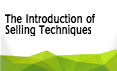
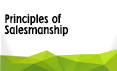
Revision Thirty

Changed region(s): [[0.0256, 0.169, 0.8205, 0.5352]]

diff --git a/elearning/pages/page54.html b/elearning/pages/page54.html
@@ -18,19 +18,19 @@
 		<section>
 			<div class="container">
 				<div class="content">
-					<ol>
-						<b><li>You are selling your product not the visual aid.</li></b>
-						<b><li>Know your visual aid details</li></b>
-						<b><li>Use it to support what you say, not to do the selling for you.</li></b>
-						<b><li>Make it clean and ready to use.</li></b>
-						<b><li>Use pen or marker, if required</li></b>
-						<b><li>Keep control of the visual aid.</li></b>
-						<b><li>Make it concise with what you are saying.</li></b>
-						<b><li>Rap it unless it is in use.</li></b>
-						<b><li>Make it seen by your audience not you.</li></b>
-						<b><li>Use it to illustrate point by point.</li></b>
+					<ul style="list-style-type: none">
+						<b><li>&nbsp 1. You are selling your product not the visual aid.</li></b>
+						<b><li>&nbsp 2. Know your visual aid details</li></b>
+						<b><li>&nbsp 3. Use it to support what you say, not to do the selling for you.</li></b>
+						<b><li>&nbsp 4. Make it clean and ready to use.</li></b>
+						<b><li>&nbsp 5. Use pen or marker, if required</li></b>
+						<b><li>&nbsp 6. Keep control of the visual aid.</li></b>
+						<b><li>&nbsp 7. Make it concise with what you are saying.</li></b>
+						<b><li>&nbsp 8. Rap it unless it is in use.</li></b>
+						<b><li>&nbsp 9. Make it seen by your audience not you.</li></b>
+						<b><li>10. Use it to illustrate point by point.</li></b>
 
-					</ol>
+					</ul>
 				</div>
 			</div>
 		</section>

diff --git a/elearning/pages/page49.html b/elearning/pages/page49.html
@@ -20,10 +20,10 @@
 	var quiz = {
 		"question": "Paul works for Indus Marketing Solution for more than 5 years and is the senior most marketing lead. He designs the selling strategies for the organization for any new product launch.<br>Paul has now a new team and a new product launched for sale. What is the Sales technique that Paul will reiterate the new team for successful sales?",
 		"choices": {
-			"1": "Opening, Reinforcement, Meeting Planning, Gaining Commitment",
-			"2": "Pre Meet Planning, Opening, Probing, Reinforce and Gaining Commitment",
-			"3": "Pre Meet planning, Opening, Reinforce, Probing and Gaining Commitment",
-			"4": "Opening, Meeting Planning, Gaining Commitment and Reinforcement"
+			"1": "A. Opening, Reinforcement, Meeting Planning, Gaining Commitment",
+			"2": "B. Pre Meet Planning, Opening, Probing, Reinforce and Gaining Commitment",
+			"3": "C. Pre Meet planning, Opening, Reinforce, Probing and Gaining Commitment",
+			"4": "D. Opening, Meeting Planning, Gaining Commitment and Reinforcement"
 		},
 		"answer":"2"
 	};

diff --git a/elearning/js/variables.js b/elearning/js/variables.js
@@ -1,13 +1,13 @@
 //PAGE Variables
 var totalChapters = 8,//change to total chapters
 	pagesPerChapter = [9,5,2,10,4,4,16,6], //change to number of pages per chapters separated in commas
-	chapterTitles = ["The Introduction to Selling Techniques","Demonstration of a Product","Buyer and Seller","Golden Rule in selling Concept","The Buying Decision Process","The Selling Process Stages","The Steps to Selling","The Brochure or Flyers"],
+	chapterTitles = ["CHAPTER 1 - Principles of Salesmanship","CHAPTER 2 - Demonstration of a Product","CHAPTER 3 - Buyer and Seller","CHAPTER 4 - Golden Rule in selling Concept","CHAPTER 5 - The Buying Decision Process","CHAPTER 6 - The Selling Process Stages","CHAPTER 7 - The Steps to Selling","CHAPTER 8 - The Brochure or Flyers"],
 	pageOfQuiz = [8,5,0,9,4,4,15,5],//number of the page where the quiz start.
 	pagesContentHolder = [],
 	soundContentHolder = [],
 	currentChapterPage =[],
 	totalPages = 0,
-	currentChapter = 1,
+	currentChapter = 0,
 	navigationCurrentPage = [],
 	content = "",
 	arrowClicked = true,

diff --git a/elearning/js/navigation.js b/elearning/js/navigation.js
@@ -1,7 +1,21 @@
 
 
 function nextPage() {
-	if(currentChapter == totalChapters && currentChapterPage[currentChapter-1] == pagesPerChapter[currentChapter-1]+1){return};
+	if(currentChapter == totalChapters && currentChapterPage[currentChapter-1] == pagesPerChapter[currentChapter-1]+1){
+		return
+	}else if(currentChapter == 0){
+		document.querySelector('nav a:nth-child(1) span').classList.add("selected");
+		document.querySelector('nav a:nth-child(1)').classList.add("selected");
+		document.querySelector('nav a:nth-child(1) span img').classList.add("selected");
+		pageTitle.innerHTML = chapterTitles[0];
+		progressPage.innerHTML = 1 + "/" + pagesPerChapter[0];
+		aud.src = 'audio/audio1.mp3';
+		Iframe.src = "./pages/page1.html";
+		currentChapter = 1;
+		enableControls();
+		playSound();
+		return;
+	};
 	for (var e = 0; e < totalChapters; e++) { 
 		if(currentChapterPage[e] == pagesPerChapter[e]+1 && currentChapter == e+1 && currentChapter != 1){
 			currentChapter = currentChapter + 1;

diff --git a/elearning/pages/page9.html b/elearning/pages/page9.html
@@ -20,10 +20,10 @@
 	var quiz = {
 		"question": "Paul visits the customer for the second time for the product sale. The customer is holding a manufacturing firm and likes to know more about the product. Paul should focus his discussion around?",
 		"choices": {
-			"1": "Explaining about current trends of Manufacturing Industry",
-			"2": "Talking about the product for sale",
-			"3": "Helping customer on the product benefits and advantages for his line of manufacturing business",
-			"4": "None of the above"
+			"1": "A. Explaining about current trends of Manufacturing Industry",
+			"2": "B. Talking about the product for sale",
+			"3": "C. Helping customer on the product benefits and advantages for his line of manufacturing business",
+			"4": "D. None of the above"
 		},
 		"answer":"3"
 	};

diff --git a/elearning/pages/page14.html b/elearning/pages/page14.html
@@ -20,10 +20,10 @@
 	var quiz = {
 		"question": "Neil has a meeting with Paul, who owns an electrical engineering firm. Neil makes his best effort to explain the product to the Paul, however, Paul declines to buy the product.<br><br>Neil thinks as to why he has missed the sale and identifies the reason. What do you think could be the possible reason missed during product demonstration?",
 		"choices": {
-			"1": "Benefits and Disadvantages",
-			"2": "Features ,Advantages and Benefits",
-			"3": "Characteristics , effects and causes",
-			"4": "None of the above"
+			"1": "A. Benefits and Disadvantages",
+			"2": "B. Features ,Advantages and Benefits",
+			"3": "C. Characteristics , effects and causes",
+			"4": "D. None of the above"
 		},
 		"answer":"2"
 	};

diff --git a/elearning/pages/page34.html b/elearning/pages/page34.html
@@ -20,10 +20,10 @@
 	var quiz = {
 		"question": "Rensuer is an academic organization which has publishing thousands of books and manuals every year.<br>The organization is very successful. What is the success factor in the Rensuer selling concept?",
 		"choices": {
-			"1": "Focus, Knowledge, Evaluation and Decision",
-			"2": "Recognition, Information, Evaluation and Product",
-			"3": "Brand, Product , Information and Evaluation",
-			"4": "Knowledge, Decision, Brand and Focus"
+			"1": "A. Focus, Knowledge, Evaluation and Decision",
+			"2": "B. Recognition, Information, Evaluation and Product",
+			"3": "C. Brand, Product , Information and Evaluation",
+			"4": "D. Knowledge, Decision, Brand and Focus"
 		},
 		"answer":"1"
 	};

diff --git a/elearning/pages/page30.html b/elearning/pages/page30.html
@@ -20,10 +20,10 @@
 	var quiz = {
 		"question": "Silverstone is a leading Steel Industry firm established well for the last 10 years. The company Manager Mike is the decision maker for any new product use. Michael, the senior sales representative meets Mike to sell his new product launched by his organization.<br>Michael has a good meeting with Mike. What will be Mike's decision thoughts?",
 		"choices": {
-			"1": "Understanding Product",
-			"2": "Favorable to his company",
-			"3": "Brand preference",
-			"4": "All of the above"
+			"1": "A. Understanding Product",
+			"2": "B. Favorable to his company",
+			"3": "C. Brand preference",
+			"4": "D. All of the above"
 		},
 		"answer":"4"
 	};

diff --git a/elearning/pages/page50.html b/elearning/pages/page50.html
@@ -20,10 +20,10 @@
 	var quiz = {
 		"question": "Minos is the sales representative with a first time customer. He has had a 10 minute conversation explaining the  new product to the  Michael, the proprietor of the company. During his conversation, Minos provides certain direct expressions to  Michael like &quot Absolutely &quot, &quotThat&apos;s a good point&quot, &quotExactly&quot etc.<p>What  step of selling is Minos iterating to Michael-</p>",
 		"choices": {
-			"1": "Probing",
-			"2": "Gaining Commitment",
-			"3": "Reinforcement",
-			"4": "Arguing"
+			"1": "A. Probing",
+			"2": "B. Gaining Commitment",
+			"3": "C. Reinforcement",
+			"4": "D. Arguing"
 		},
 		"answer":"3"
 	};

diff --git a/elearning/js/defaults.js b/elearning/js/defaults.js
@@ -3,15 +3,13 @@ if(totalChapters>8){
 	document.querySelector('nav').style.overflow = "auto";
 }
 document.querySelector('nav').innerHTML = content;
-document.querySelector('nav a:nth-child(1) span').classList.add("selected");
-document.querySelector('nav a:nth-child(1)').classList.add("selected");
 
 // for (var i = 1; i <= totalChapters; i++) { 
 // 	document.querySelector("nav a:nth-child("+ i +") span").style.pointerEvents = "none";
 // }
 
-pageTitle.innerHTML = chapterTitles[0];
-progressPage.innerHTML = 1 + "/" + pagesPerChapter[0];
-aud.src = 'audio/audio1.mp3';
+pageTitle.innerHTML = 'Course Agenda';
+progressPage.innerHTML = '1/1';
+aud.src = 'audio/audio0.mp3';
 playSound();
 

diff --git a/elearning/pages/page55.html b/elearning/pages/page55.html
@@ -20,9 +20,9 @@
 	var quiz = {
 		"question": "Mauly has newly joined the sales team of Cinos Academy and Research Unit. Mauly is provided with a sales brochure that details the features, advantages and benefits of the Product of sale.<br><br>Mauly prepares for the first customer meeting. The next day, during customer meeting, Mauly demonstrates the product only with the help of sales brochure.<br><br>Is Mauly having a right approach in Sales?",
 		"choices": {
-			"1": "Yes",
-			"2": "No",
-			"3": "Maybe"
+			"1": "A. Yes",
+			"2": "B. No",
+			"3": "C. Maybe"
 		},
 		"answer":"2"
 	};

diff --git a/elearning/js/preload.js b/elearning/js/preload.js
@@ -27,6 +27,7 @@
 			{id:'images/sound_mute.png',src:this.path+'images/sound_mute.png'},
 			{id:'images/sound_unmute.png',src:this.path+'images/sound_unmute.png'},
 			{id:'images/thumblock.png',src:this.path+'images/thumblock.png'},
+			{id:'pages/page0.html',src:this.path+'pages/page0.html'},
 			{id:'pages/images/cognizant.png',src:this.path+'pages/images/cognizant.png'},
 			{id:'pages/images/page03img01.png',src:this.path+'pages/images/page03img01.png'},
 			{id:'pages/images/page15img01.png',src:this.path+'pages/images/page15img01.png'},
